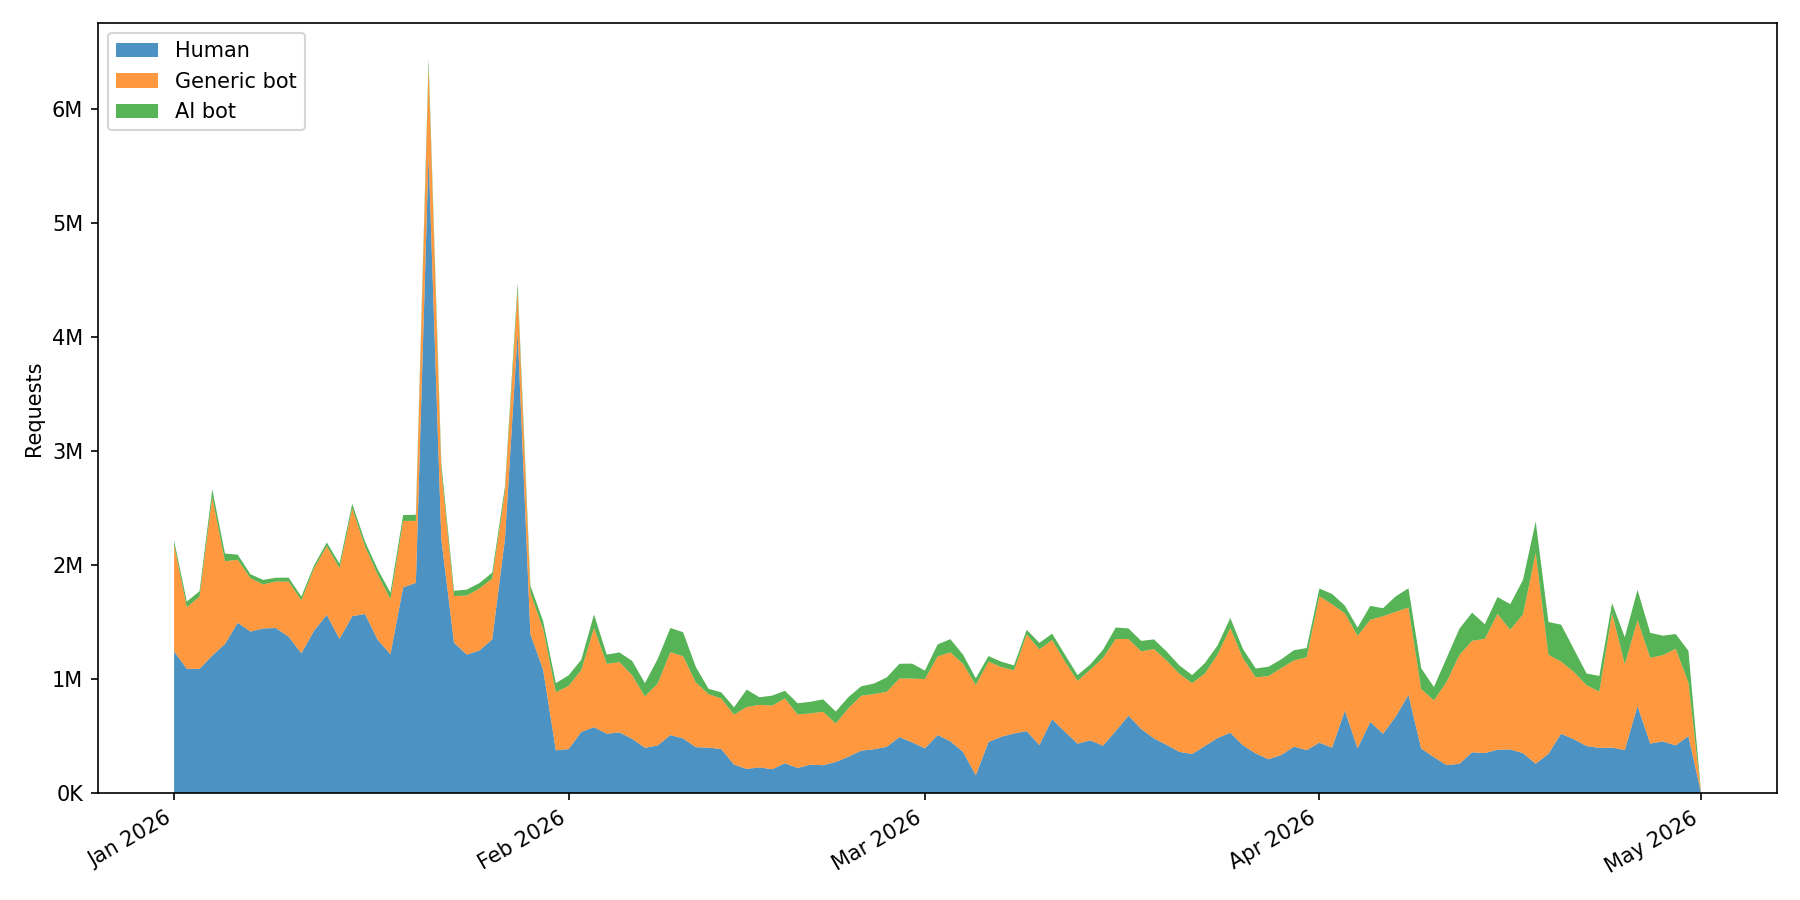
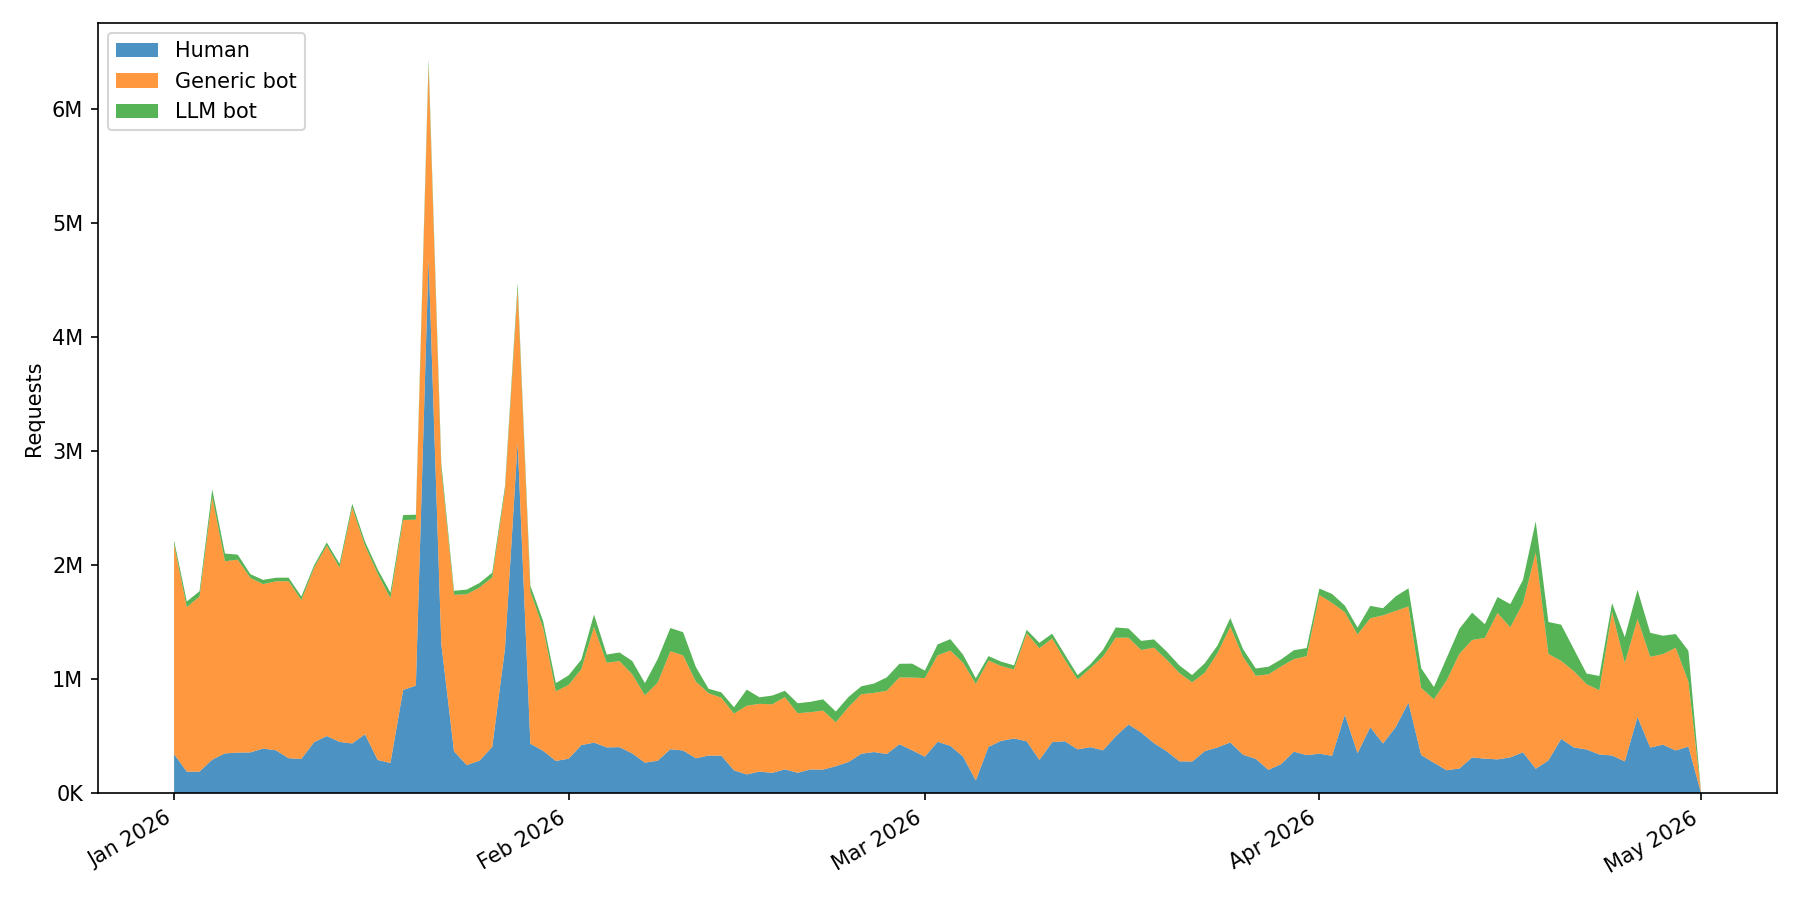
fix: improve bot classification accuracy

diff --git a/oc_botwatch/classify.py b/oc_botwatch/classify.py
@@ -10,11 +10,28 @@ logger = logging.getLogger(__name__)
 BASE_DIR = Path(__file__).resolve().parent.parent
 INPUT_DIR = BASE_DIR / "input"
 
+_SKIP_LLM_NAMES: frozenset[str] = frozenset({"Spider", "Code"})
 
-def _build_ai_pattern() -> str:
+_SUPPLEMENTARY_BOT_PATTERNS: list[str] = [
+    r"^node$",
+    r"XeraRetractionTracker",
+    r"academic-doi-finder",
+    r"opencitations-second-hop",
+    r"Episciences",
+    r"Microsoft\.Data\.Mashup",
+    r"PMC_abstract",
+]
+
+
+def _build_llm_pattern() -> str:
     with (BASE_DIR / "ai-robots-txt" / "robots.json").open() as f:
-        data = json.load(f)
-    return "(?i)" + "|".join(re.escape(name) for name in data)
+        data: dict[str, object] = json.load(f)
+    parts: list[str] = []
+    for name in data:
+        if name in _SKIP_LLM_NAMES:
+            continue
+        parts.append(rf"\b{re.escape(name)}\b")
+    return "(?i)" + "|".join(parts)
 
 
 def _build_generic_bot_pattern() -> str:
@@ -28,11 +45,12 @@ def _build_generic_bot_pattern() -> str:
             continue
         patterns.append(entry["pattern"])
     patterns.extend(entry["pattern"] for entry in counter)
+    patterns.extend(_SUPPLEMENTARY_BOT_PATTERNS)
     return "(?i)" + "|".join(patterns)
 
 
 def classify_traffic() -> pl.DataFrame:
-    ai_pat = _build_ai_pattern()
+    llm_pat = _build_llm_pattern()
     generic_pat = _build_generic_bot_pattern()
 
     frames = [
@@ -47,8 +65,8 @@ def classify_traffic() -> pl.DataFrame:
         .with_columns(pl.col("date").str.slice(0, 10).alias("date"))
         .filter(pl.col("date").str.contains(r"^\d{4}-\d{2}-\d{2}$"))
         .with_columns(
-            pl.when(pl.col("user_agent").str.contains(ai_pat))
-            .then(pl.lit("ai_bot"))
+            pl.when(pl.col("user_agent").str.contains(llm_pat))
+            .then(pl.lit("llm_bot"))
             .when(pl.col("user_agent").str.contains(generic_pat))
             .then(pl.lit("generic_bot"))
             .otherwise(pl.lit("human"))
@@ -63,7 +81,7 @@ def classify_traffic() -> pl.DataFrame:
         daily.pivot(on="category", index="date", values="len")
         .fill_null(0)
         .sort("date")
-        .select("date", "human", "generic_bot", "ai_bot")
+        .select("date", "human", "generic_bot", "llm_bot")
     )
 
 

diff --git a/oc_botwatch/visualize.py b/oc_botwatch/visualize.py
@@ -17,10 +17,10 @@ def plot_daily_traffic(df: pl.DataFrame, output: Path) -> None:
     dates = df["date"].to_list()
     human = df["human"].to_list()
     generic_bot = df["generic_bot"].to_list()
-    ai_bot = df["ai_bot"].to_list()
+    llm_bot = df["llm_bot"].to_list()
 
     fig, ax = plt.subplots(figsize=(12, 6))
-    ax.stackplot(dates, human, generic_bot, ai_bot, labels=["Human", "Generic bot", "AI bot"], alpha=0.8)
+    ax.stackplot(dates, human, generic_bot, llm_bot, labels=["Human", "Generic bot", "LLM bot"], alpha=0.8)
     ax.legend(loc="upper left")
     ax.set_ylabel("Requests")
     def _fmt_axis(x: float, _pos: int) -> str:

diff --git a/README.md b/README.md
@@ -16,11 +16,13 @@ User-agent strings are matched against three open databases (included as git sub
 - [crawler-user-agents](https://github.com/monperrus/crawler-user-agents)
 - [COUNTER-Robots](https://github.com/atmire/COUNTER-Robots)
 
-A request is labeled `ai_bot` if its user-agent matches any entry in ai.robots.txt. Otherwise, if it matches crawler-user-agents (excluding entries already tagged as `ai-crawler`) or COUNTER-Robots, it's labeled `generic_bot`. Everything else is `human`.
+A request is labeled `llm_bot` if its user-agent matches any entry in ai.robots.txt (apart from "Spider" or "Code", which are too generic and fall through to generic bot detection). Otherwise, if it matches crawler-user-agents (excluding entries already tagged as `ai-crawler`) or COUNTER-Robots, it's labeled `generic_bot`. 
+
+A handful of supplementary patterns cover bots present in our data that none of the three databases include: XeraRetractionTracker, academic-doi-finder, opencitations-second-hop, Episciences, Microsoft.Data.Mashup, PMC_abstract, and the bare `node` user-agent string (i.e., Node.js). Everything else is `human`.
 
 ### Why these three sources
 
-Because they have already been adopted in the literature. In particular, [Liu et al. (2025)](https://doi.org/10.1145/3730567.3732913) uses Dark Visitors, the upstream data source of ai.robots.txt, as its primary reference for compiling AI user agents, and relies on crawler-user-agents as a supplementary corpus of general-purpose bot signatures when testing the coverage of Cloudflare's bot-blocking feature. 
+Because they have already been adopted in the literature. In particular, [Liu et al. (2025)](https://doi.org/10.1145/3730567.3732913) uses Dark Visitors, the upstream data source of ai.robots.txt, as its primary reference for compiling LLM user agents, and relies on crawler-user-agents as a supplementary corpus of general-purpose bot signatures when testing the coverage of Cloudflare's bot-blocking feature. 
 
 COUNTER-Robots is the robot list maintained by [Project COUNTER](https://www.projectcounter.org), an international initiative that sets standards for counting usage of electronic scholarly resources. Since OpenCitations is itself a scholarly infrastructure, filtering its logs with COUNTER-Robots aligns with the conventions of the domain.
 
@@ -45,7 +47,7 @@ Both files are in the `output/` directory.
 `output/daily_traffic.csv`: per-day request counts by category.
 
 ```csv
-date,human,generic_bot,ai_bot
+date,human,generic_bot,llm_bot
 2026-01-01,150432,28901,4210
 2026-01-02,148877,27650,4455
 ...